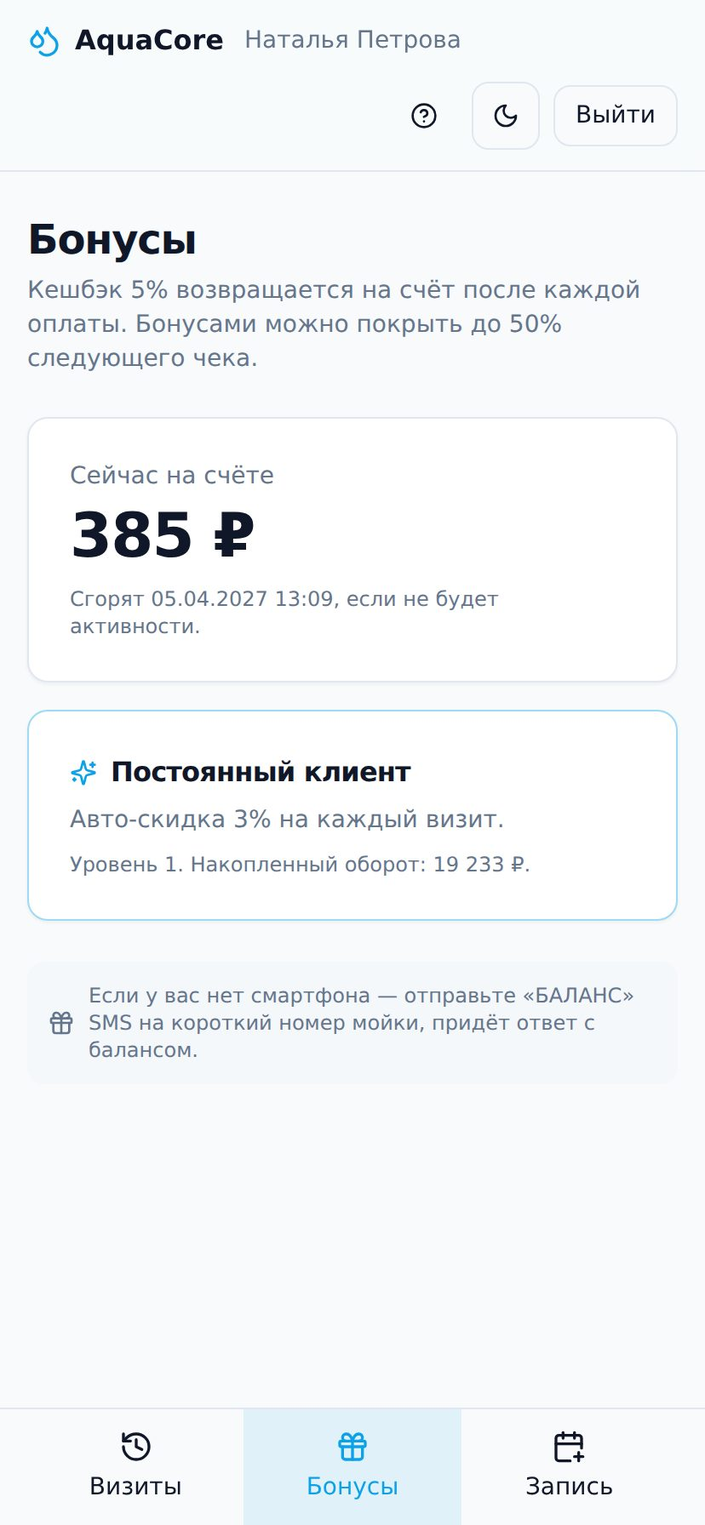
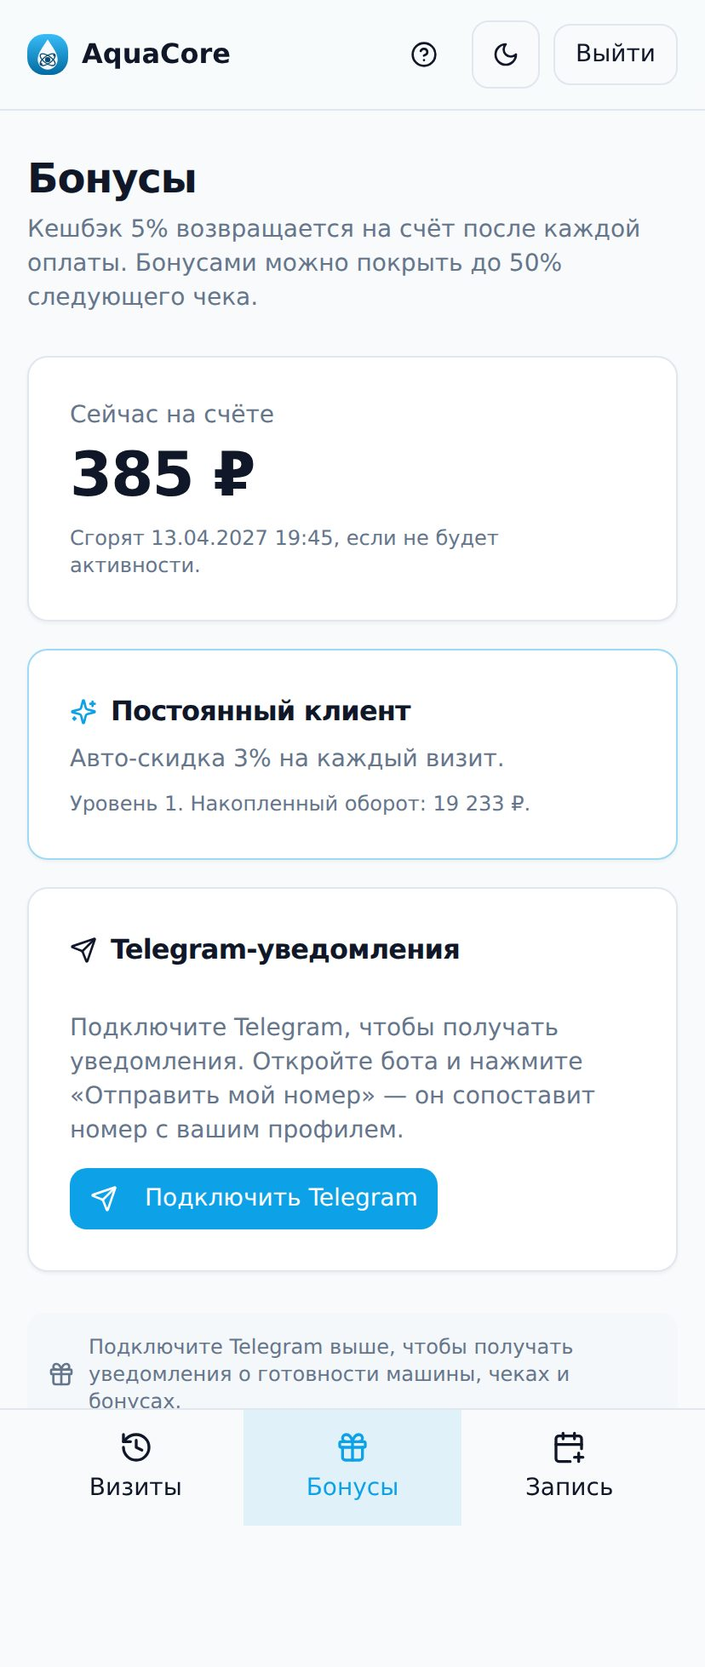
Сайт: тексты SMS→Telegram и перевыпуск изменившихся скриншотов
Приложение мигрировало с SMS на Telegram, сайт приведён в соответствие
(без редизайна/перестройки главной — только тексты и скриншоты).

Тексты (везде, включая главную):
- SMS-уведомления/SMS-чек → уведомления в Telegram (клиенту «машина готова»
  и чек с бонусами; персоналу — события по ролям; бренд-название мойки
  в сообщениях); вход клиента «по SMS-коду» → вход через Telegram.
- Затронуты page.tsx, vozmozhnosti, tarify, Pricing.tsx, content.ts, screens.ts.

Скриншоты:
- Перевыпущены изменившиеся: client-bonuses (карточка подключения Telegram),
  manager-client-card (Telegram-бонусы, режим просмотра), admin-archive.
- Добавлены новые Telegram-экраны: manager-notifications (матрица
  маршрутизации) и login-telegram (вход через Telegram).
- Добавлен scripts/capture-screens.mjs — версионируемый скрипт съёмки
  (Playwright + минт session-cookie), чтобы скрины можно было пересобрать.
  Инструкция — в README. Тяжёлые dev-зависимости намеренно не в package.json.

Claude-Session: https://claude.ai/code/session_01WNfDmg1f22BPHbsnyLYnX8

diff --git a/src/app/vozmozhnosti/page.tsx b/src/app/vozmozhnosti/page.tsx
@@ -9,7 +9,7 @@ import { SectionHeading } from "@/components/Section";
 export const metadata: Metadata = {
   title: "Возможности программы для автомойки и шиномонтажа",
   description:
-    "Полный список возможностей AquaCore: доска заказов, распознавание номеров, лояльность, зарплата, касса, аналитика, аудит, клиентский кабинет и SMS-уведомления. Подходит для мойки, шиномонтажа и детейлинга.",
+    "Полный список возможностей AquaCore: доска заказов, распознавание номеров, лояльность, зарплата, касса, аналитика, аудит, клиентский кабинет и уведомления в Telegram. Подходит для мойки, шиномонтажа и детейлинга.",
 };
 
 type Group = {
@@ -61,7 +61,7 @@ const groups: Group[] = [
       { t: "Кешбэк", d: "Настраиваемый процент возврата бонусами и лимит списания за визит." },
       { t: "Уровни скидок", d: "Несколько ступеней по сумме трат с собственными названиями." },
       { t: "Акции по правилам", d: "Скидки по дням недели, времени, категориям услуг и классам авто." },
-      { t: "Срок жизни бонусов", d: "Бонусы сгорают через заданное число дней — стимул вернуться. Дата сгорания видна клиенту в кабинете, в карточке клиента и в SMS-чеке: «бонусы действуют до …»." },
+      { t: "Срок жизни бонусов", d: "Бонусы сгорают через заданное число дней — стимул вернуться. Дата сгорания видна клиенту в кабинете, в карточке клиента и в чеке Telegram: «бонусы действуют до …»." },
       { t: "Безопасные конфликты", d: "При пересечении правил применяется максимально выгодная клиенту скидка." },
       { t: "Единый «рубильник»", d: "Лояльность можно выключить целиком и снова включить — без потери настроек. Пока программа выключена, её настройки заблокированы от случайных правок." },
     ],
@@ -133,7 +133,7 @@ const groups: Group[] = [
     icon: "phone",
     title: "Клиентский кабинет",
     items: [
-      { t: "Постоянная ссылка мойки", d: "Короткая ссылка или QR-код на кассе ведут клиента сразу в кабинет вашей мойки. Вход по номеру телефона и SMS-коду — без приложений и паролей." },
+      { t: "Постоянная ссылка мойки", d: "Короткая ссылка или QR-код на кассе ведут клиента сразу в кабинет вашей мойки. Вход через Telegram в одно касание — без приложений, паролей и SMS-кодов." },
       { t: "История визитов", d: "Даты, услуги, суммы, исполнитель и фото автомобиля." },
       { t: "Бонусный счёт", d: "Текущий баланс, срок действия и история начислений/списаний." },
       { t: "Оценки и отзывы", d: "Клиент ставит оценку и оставляет комментарий после визита." },
@@ -144,10 +144,11 @@ const groups: Group[] = [
     icon: "bell",
     title: "Уведомления и интеграции",
     items: [
-      { t: "SMS клиенту", d: "«Машина готова» и SMS-чек после оплаты: сумма, начисленные бонусы и баланс (SMS Aero / SMS.ru)." },
-      { t: "SMS-чек по галочке", d: "Включается персонально в карточке клиента; админ может отправить SMS с балансом бонусов вручную — из карточки клиента или прямо из карточки визита." },
-      { t: "Срок бонусов в SMS", d: "SMS-чек сообщает «бонусы действуют до …» — деликатное напоминание приехать снова." },
-      { t: "Защита от SMS-спама", d: "Повторная отправка SMS тому же клиенту ограничена по времени — случайно «заспамить» клиента не получится." },
+      { t: "Telegram клиенту", d: "«Машина готова» и чек после оплаты прямо в Telegram: сумма, начисленные бонусы и баланс. Клиент подключает уведомления при входе в кабинет." },
+      { t: "События по ролям", d: "Матрица маршрутизации: сами выбираете, кто из сотрудников какие события получает — новая запись, оплата, закрытие смены, жалоба, оценка, возврат. Исполнителю — только его назначенные визиты." },
+      { t: "Название мойки в сообщениях", d: "Каждое уведомление подписано брендом вашей мойки, а не «ИП …» — выглядит аккуратно, особенно если моек несколько." },
+      { t: "Вход через Telegram", d: "Клиент входит в кабинет в одно касание, подтверждая номер в мессенджере, — без паролей и SMS-кодов." },
+      { t: "Срок бонусов в чеке", d: "Чек в Telegram сообщает «бонусы действуют до …» — деликатное напоминание приехать снова." },
       { t: "Email", d: "Подтверждение почты и восстановление доступа сотрудников." },
     ],
   },

diff --git a/src/config/content.ts b/src/config/content.ts
@@ -80,8 +80,8 @@ export const keyFeatures: Feature[] = [
   },
   {
     icon: "bell",
-    title: "SMS-уведомления",
-    text: "Клиенту — SMS «машина готова» и SMS-чек после оплаты: сумма, начисленные бонусы и срок их действия — мягкий повод вернуться. Защита от случайного спама повторными SMS встроена.",
+    title: "Уведомления в Telegram",
+    text: "Клиенту в Telegram — «машина готова» и чек после оплаты: сумма, начисленные бонусы и срок их действия — мягкий повод вернуться. Сотрудникам события приходят по ролям: вы сами решаете, кто что получает (новая запись, оплата, закрытие смены, жалоба). Каждое сообщение подписано названием вашей мойки.",
   },
   {
     icon: "phone",
@@ -180,11 +180,11 @@ export const faq = [
   },
   {
     q: "Чем отличается тариф с клиентским кабинетом за 90 000 ₽?",
-    a: "Дополнительно подключаются два модуля: «Клиентский кабинет» (история визитов с фото, баланс бонусов, онлайн-запись, вход по постоянной ссылке или QR-коду мойки) и «SMS-уведомления», плюс помощь с подключением и онбордингом. Это усиливает удержание клиентов и автоматизирует общение с ними.",
+    a: "Дополнительно подключаются два модуля: «Клиентский кабинет» (история визитов с фото, баланс бонусов, онлайн-запись, вход по постоянной ссылке или QR-коду мойки) и «Уведомления в Telegram» (клиенту — «машина готова» и чек с бонусами, сотрудникам — события по ролям), плюс помощь с подключением и онбордингом. Это усиливает удержание клиентов и автоматизирует общение с ними.",
   },
   {
     q: "Можно ли подключать модули по отдельности?",
-    a: "Да. Система модульная: базовый тариф — это полноценное ядро управления мойкой, а «Клиентский кабинет» и «SMS-уведомления» подключаются как отдельные модули. Начните с базового, а нужные модули добавим в любой момент без переустановки и потери данных — включаются одной галочкой в настройках.",
+    a: "Да. Система модульная: базовый тариф — это полноценное ядро управления мойкой, а «Клиентский кабинет» и «Уведомления в Telegram» подключаются как отдельные модули. Начните с базового, а нужные модули добавим в любой момент без переустановки и потери данных — включаются одной галочкой в настройках.",
   },
   {
     q: "Можно ли настроить классы авто под свой прайс?",
@@ -196,7 +196,7 @@ export const faq = [
   },
   {
     q: "Как клиенты попадают в свой кабинет?",
-    a: "По постоянной короткой ссылке вашей мойки — отправьте её сообщением или повесьте QR-кодом на кассе. Клиент входит по номеру телефона и SMS-коду, без приложений и паролей, и сразу видит свою мойку: историю визитов, бонусы и онлайн-запись. Ссылка безопасна: без телефона войти по ней нельзя.",
+    a: "По постоянной короткой ссылке вашей мойки — отправьте её сообщением или повесьте QR-кодом на кассе. Клиент входит через Telegram в одно касание (подтверждает номер телефона в мессенджере), без приложений, паролей и SMS-кодов, и сразу видит свою мойку: историю визитов, бонусы и онлайн-запись. Заодно он подключает уведомления — «машина готова» и чек придут прямо в Telegram.",
   },
   {
     q: "Нужно ли специальное оборудование?",

diff --git a/src/app/tarify/page.tsx b/src/app/tarify/page.tsx
@@ -11,7 +11,7 @@ import { Faq } from "@/components/Faq";
 export const metadata: Metadata = {
   title: "Тарифы — программа для автомойки и шиномонтажа",
   description:
-    "Тарифы AquaCore: базовый — 50 000 ₽ в год (огромный функционал управления мойкой и шиномонтажом), расширенный с клиентским кабинетом и SMS — 90 000 ₽ в год.",
+    "Тарифы AquaCore: базовый — 50 000 ₽ в год (огромный функционал управления мойкой и шиномонтажом), расширенный с клиентским кабинетом и уведомлениями в Telegram — 90 000 ₽ в год.",
 };
 
 const compare: { feature: string; basic: boolean; pro: boolean }[] = [
@@ -28,7 +28,7 @@ const compare: { feature: string; basic: boolean; pro: boolean }[] = [
   { feature: "Модуль «Клиентский кабинет» (история, бонусы)", basic: false, pro: true },
   { feature: "Онлайн-запись клиентов", basic: false, pro: true },
   { feature: "Постоянная ссылка и QR-код для входа клиентов", basic: false, pro: true },
-  { feature: "Модуль «SMS-уведомления» (SMS-чек, «машина готова»)", basic: false, pro: true },
+  { feature: "Модуль «Уведомления в Telegram» (чек, «машина готова», события по ролям)", basic: false, pro: true },
   { feature: "Подключение и онбординг под ключ", basic: false, pro: true },
 ];
 
@@ -43,15 +43,15 @@ const pricingFaq = [
   },
   {
     q: "Почему базовый тариф — самый подходящий?",
-    a: "Потому что он уже включает практически весь функционал для управления мойкой: доску, клиентов, лояльность, зарплату, кассу, аналитику, аудит и распознавание номеров. Этого достаточно, чтобы навести порядок и увеличить доход. Кабинет клиента и SMS — приятное дополнение, но не обязательное для старта.",
+    a: "Потому что он уже включает практически весь функционал для управления мойкой: доску, клиентов, лояльность, зарплату, кассу, аналитику, аудит и распознавание номеров. Этого достаточно, чтобы навести порядок и увеличить доход. Кабинет клиента и уведомления в Telegram — приятное дополнение, но не обязательное для старта.",
   },
   {
     q: "Можно ли перейти с базового на расширенный позже?",
-    a: "Да. Начните с базового тарифа, а когда захотите подключить клиентский кабинет и SMS — перейдёте на расширенный без потери данных.",
+    a: "Да. Начните с базового тарифа, а когда захотите подключить клиентский кабинет и уведомления в Telegram — перейдёте на расширенный без потери данных.",
   },
   {
     q: "Как устроены модули?",
-    a: "Система модульная. Базовый тариф — это полноценное ядро управления мойкой. Сверху по подписке подключаются модули «Клиентский кабинет» и «SMS-уведомления». Тариф «С кабинетом» — это базовый плюс оба модуля. Модули можно включить в любой момент одной галочкой в настройках, данные при этом не теряются.",
+    a: "Система модульная. Базовый тариф — это полноценное ядро управления мойкой. Сверху по подписке подключаются модули «Клиентский кабинет» и «Уведомления в Telegram». Тариф «С кабинетом» — это базовый плюс оба модуля. Модули можно включить в любой момент одной галочкой в настройках, данные при этом не теряются.",
   },
   {
     q: "Как оформляется покупка?",

diff --git a/src/app/page.tsx b/src/app/page.tsx
@@ -445,10 +445,10 @@ function ClientLink() {
           </p>
           <ul className="mt-6 space-y-3">
             {[
-              "Вход по номеру телефона и SMS-коду — без приложений и паролей",
-              "Ссылка постоянная и безопасная: без телефона по ней не войти",
+              "Вход через Telegram в одно касание — без приложений и паролей",
+              "Ссылка постоянная и безопасная: без подтверждения по ней не войти",
               "QR-код на кассе превращает разовых посетителей в постоянных",
-              "Модули «Клиентский кабинет» и «SMS» включаются одной галочкой",
+              "Модули «Клиентский кабинет» и «Уведомления (Telegram)» включаются одной галочкой",
             ].map((t) => (
               <li key={t} className="flex items-start gap-3 text-ink-soft">
                 <span className="mt-0.5 grid h-5 w-5 place-items-center rounded-full bg-brand-50 text-brand-600">
@@ -609,7 +609,7 @@ function Quality() {
     { icon: "star" as const, t: "Оценки после визита", d: "Клиент ставит оценку и пишет отзыв в своём кабинете — обратная связь приходит сама." },
     { icon: "users" as const, t: "Рейтинг исполнителей", d: "Средний балл и отзывы по каждому сотруднику. Видно, кто моет лучше всех — и кого подтянуть." },
     { icon: "doc" as const, t: "Жалобы с решением", d: "«Новая → В работе → Решена», заметка решения обязательна и видна клиенту. Ни одна жалоба не потеряется." },
-    { icon: "bell" as const, t: "SMS-чек с бонусами", d: "После оплаты клиент получает SMS: сумма, начисленные бонусы и срок их действия. Лояльность работает сама." },
+    { icon: "bell" as const, t: "Чек в Telegram с бонусами", d: "После оплаты клиент получает в Telegram: сумму, начисленные бонусы и срок их действия. Лояльность работает сама." },
   ];
   return (
     <section id="kachestvo" className="section bg-slate-50">
@@ -678,7 +678,7 @@ function Security() {
 /* ───────────────────────── INTEGRATIONS ───────────────────────── */
 function Integrations() {
   const items = [
-    { icon: "bell" as const, t: "SMS клиентам", d: "«Машина готова» и SMS-чек после оплаты: сумма, бонусы и срок их действия — через SMS Aero или SMS.ru." },
+    { icon: "bell" as const, t: "Telegram клиентам и персоналу", d: "«Машина готова» и чек с бонусами — клиенту; события по ролям — сотрудникам. Каждое сообщение подписано названием вашей мойки." },
     { icon: "link" as const, t: "Ссылка и QR для клиентов", d: "Постоянная ссылка вашей мойки ведёт клиента сразу в его кабинет — повесьте QR-код на кассе." },
     { icon: "scan" as const, t: "Распознавание номеров", d: "Своё решение распознавания без привязки к одному поставщику." },
     { icon: "mail" as const, t: "Email", d: "Подтверждение почты и восстановление доступа для сотрудников." },

diff --git a/src/config/screens.ts b/src/config/screens.ts
@@ -57,7 +57,7 @@ export const shots: Shot[] = [
   {
     file: "manager-client-card.jpg",
     title: "История клиента",
-    caption: "Карточка клиента: все визиты, авто, бонусы и срок их действия, SMS с бонусами в один клик. Открывается в режиме просмотра — случайные правки исключены.",
+    caption: "Карточка клиента: все визиты, авто, бонусы и срок их действия, уведомление с бонусами в Telegram в один клик. Открывается в режиме просмотра — случайные правки исключены.",
     role: "Управляющий",
     device: "desktop",
   },
@@ -107,6 +107,13 @@ export const shots: Shot[] = [
     file: "manager-client-link.jpg",
     title: "Ссылка для клиентов и модули",
     caption: "Постоянная ссылка вашей мойки: клиент входит по ней (или QR-коду на кассе) сразу в свой кабинет. Модули подключаются одной галочкой.",
+    role: "Управляющий",
+    device: "desktop",
+  },
+  {
+    file: "manager-notifications.jpg",
+    title: "Маршрутизация уведомлений в Telegram",
+    caption: "Сами решаете, кто что получает: матрица событий (новая запись, оплата, закрытие смены, жалоба, оценка) × роли (управляющий, администратор, исполнитель). Клиенту — «машина готова» и чек с бонусами в Telegram.",
     role: "Управляющий",
     device: "desktop",
   },
@@ -171,7 +178,7 @@ export const shots: Shot[] = [
   {
     file: "admin-archive.jpg",
     title: "Архив визитов",
-    caption: "Визиты прошлых смен с фото машин и итогами за период: быстрый поиск, возврат и SMS с бонусами по любой записи.",
+    caption: "Визиты прошлых смен с фото машин и итогами за период: быстрый поиск, возврат и уведомление с бонусами в Telegram по любой записи.",
     role: "Администратор",
     device: "desktop",
   },
@@ -203,7 +210,14 @@ export const shots: Shot[] = [
   {
     file: "client-bonuses.jpg",
     title: "Бонусы клиента",
-    caption: "Баланс, срок сгорания, уровень лояльности и накопленный оборот.",
+    caption: "Баланс, срок сгорания, уровень лояльности и накопленный оборот. Здесь же — подключение Telegram: «машина готова» и чек придут в мессенджер.",
+    role: "Клиент",
+    device: "mobile",
+  },
+  {
+    file: "login-telegram.jpg",
+    title: "Вход через Telegram",
+    caption: "Клиент входит в кабинет в одно касание — подтверждает номер прямо в Telegram, без паролей и SMS-кодов. Заодно подключаются уведомления.",
     role: "Клиент",
     device: "mobile",
   },

diff --git a/src/components/Pricing.tsx b/src/components/Pricing.tsx
@@ -21,7 +21,7 @@ const proAdds = [
   "Личный кабинет клиента (история, бонусы)",
   "Онлайн-запись клиентов",
   "Постоянная ссылка и QR-код для входа клиентов",
-  "SMS-уведомления клиентам: «машина готова» и SMS-чек",
+  "Уведомления в Telegram: клиенту «машина готова» и чек, сотрудникам — события по ролям",
   "Подключение и онбординг под ключ",
 ];
 

diff --git a/README.md b/README.md
@@ -75,3 +75,23 @@ chmod +x ~/aquacore-deploy.sh
 Скриншоты интерфейса в `public/screens/` сняты с работающего приложения AquaCore
 на демо-данных; видеоролики в `public/videos/` смонтированы из реальных записей
 экрана и сгенерированных сцен. Превью для соцсетей — `public/og.jpg`.
+
+### Перегенерация скриншотов (`scripts/capture-screens.mjs`)
+Скрипт снимает экраны с локально запущенного приложения. Тяжёлые зависимости
+(`playwright`, `next-auth`) намеренно НЕ в `package.json`, чтобы не утяжелять
+сборку сайта (`npm ci` в Pages) — ставятся разово при перегенерации.
+
+```bash
+# 1. В репозитории приложения AquaCore: поднять Postgres, накатить демо-данные,
+#    запустить dev-сервер (см. его README). Включить модули «Клиентский кабинет»
+#    и «Уведомления» для демо-мойки и привязать одного demo-клиента к CLIENT-юзеру
+#    (вход в кабинет — только через Telegram).
+# 2. В этом репозитории — поставить инструменты съёмки:
+npm i --no-save playwright next-auth@5.0.0-beta.25 && npx playwright install chromium
+# 3. Снять кадры (IDs берутся из демо-базы; AUTH_SECRET — из .env приложения):
+AUTH_SECRET=… MANAGER_USER_ID=… ADMIN_USER_ID=… CLIENT_USER_ID=… \
+MANAGER_CUSTOMER_ID=… WASH_ID=… WASH_SLUG=main \
+node scripts/capture-screens.mjs
+```
+Кадры сохраняются прямо в `public/screens/`. Список и подписи — в
+`src/config/screens.ts`.
